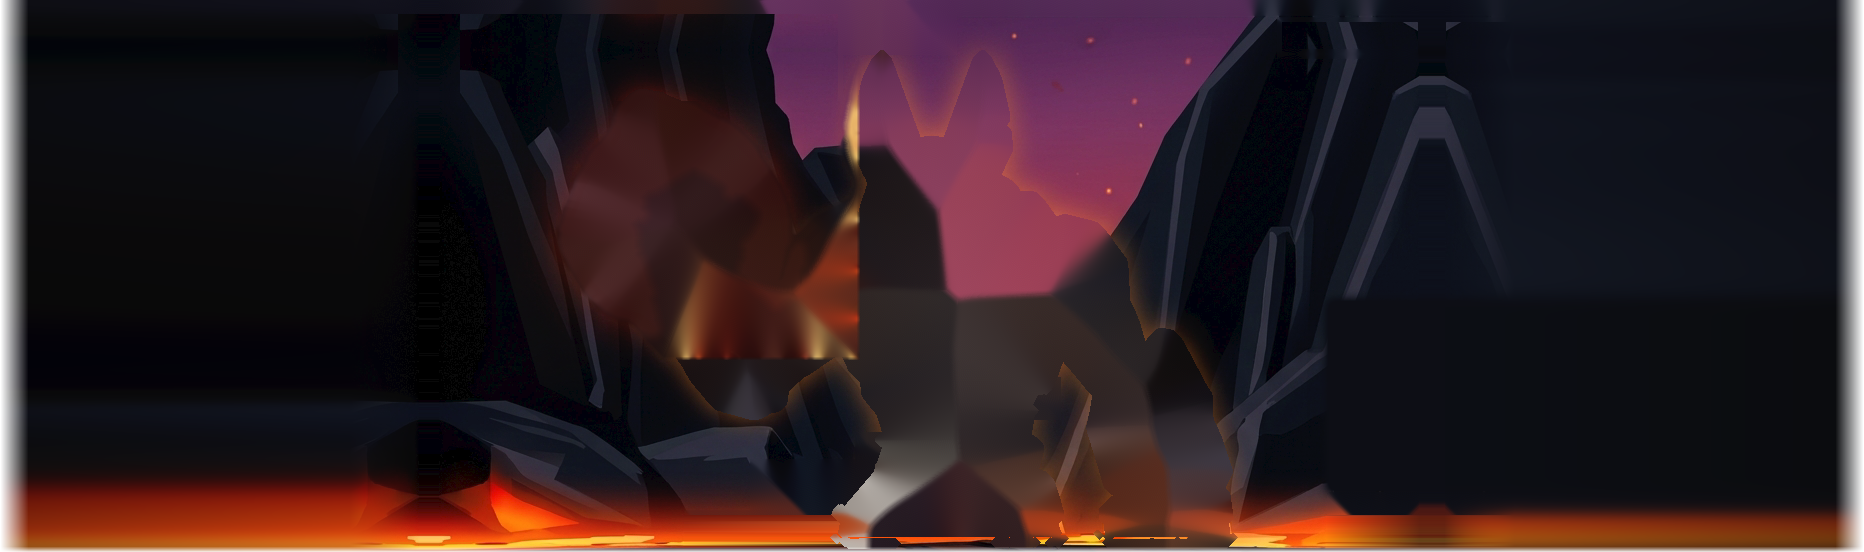
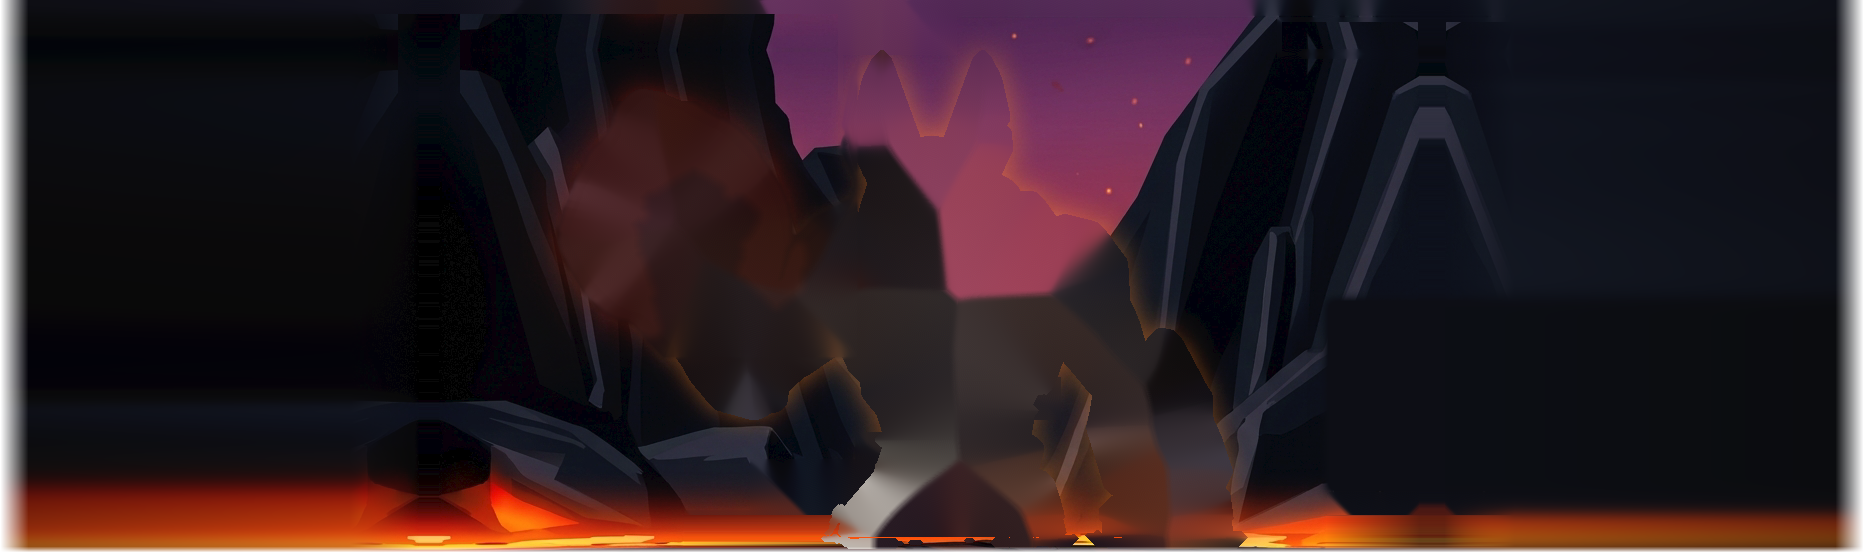
builder: run 9 — fist flame and backdrop round it, notes and status
Cracks, fist fire and cliffs graded FAIL (closer, no penalties); items stay open with Next pass lines.

Claude-Session: https://claude.ai/code/session_0154g5Bjcu6QPNTNRhyoZf7H

diff --git a/tools/backdrop_cut.py b/tools/backdrop_cut.py
@@ -101,7 +101,8 @@ def fist_backdrop(out, img, fig, wide, fire_a, m):
     near = ndi.binary_dilation(flame | m, iterations=90) & area
     src_mask = repl | (warm & near) | hud
     src_mask &= area
-    bgr = np.ascontiguousarray(np.clip(img[..., ::-1], 0, 255).astype(np.uint8))
+    # the figure already filled in `out`, so no outline leaks in from past the area
+    bgr = np.ascontiguousarray(np.clip(out[..., ::-1], 0, 255).astype(np.uint8))
     # whatever lies outside the area stays as source
     cool = cv2.inpaint(bgr, src_mask.astype(np.uint8) * 255, 11, cv2.INPAINT_TELEA)[..., ::-1].astype(float)
     # The boss-bar rect: TARGET's cliffs there are vertical slabs and its sky
@@ -172,6 +173,13 @@ def build():
     # backdrop keeps it rather than an inpainted smear.
     fig = m | ndi.binary_dilation(line, iterations=2) & ndi.binary_dilation(m, iterations=12)
     fig = ndi.binary_dilation(fig, iterations=FIG_GROW)
+    # The outline's soft cream glow reaches past the grown figure (beside
+    # the left ear it stood as a pale wisp in the sky, grader 2026-10-09):
+    # warm-light pixels just round the figure go with it.
+    r_, g_, b_ = T[..., 0], T[..., 1], T[..., 2]
+    glowline = (r_ > 150) & (g_ > 100) & (r_ - b_ > 40) & ndi.binary_dilation(fig, iterations=8)
+    glowline &= ~ndi.binary_erosion(ndi.binary_dilation(fire_a > 0.5, iterations=40), iterations=1) | m
+    fig |= ndi.binary_dilation(glowline, iterations=2)
     # The flame's tongues, a little inside their edge: the backdrop keeps
     # TARGET's glow right at the tongues, so no dark fill rims the flame.
     fig |= ndi.binary_erosion(fire_a > 0.5, iterations=5)   # past the tongues' sway

diff --git a/tools/beast_rig.py b/tools/beast_rig.py
@@ -141,6 +141,10 @@ FIRE_SMOOTH = True
 FIRE_SMOOTH_D = 11
 FIRE_SMOOTH_SC = 40.0
 FIRE_SMOOTH_SS = 5.0
+# Unsharp on the smoothed flame (canvas px sigma, gain): TARGET's curl
+# strokes read inked; after the resample the game's read soft (grader R3).
+FIRE_INK_SIG = 2.5
+FIRE_INK = 0.0   # 0.8 tried 2026-10-09: brought the grain back
 FIRE_SHELL_PX = 0.0       # canvas px (2x TARGET) of the flame's outer shell
 FIRE_SHELL_R = (110.0, 165.0)   # red: fully faded .. fully kept
 FIRE_HAZE = 0.92        # 0.92 until the backdrop (tools/backdrop_cut.py) carried TARGET's glow itself
@@ -851,7 +855,10 @@ def build():
             sm = cv2.bilateralFilter(L[..., :3].astype(np.float32), FIRE_SMOOTH_D,
                                      FIRE_SMOOTH_SC, FIRE_SMOOTH_SS).astype(float)
             L = L.copy()
-            L[..., :3] = np.where((L[..., 3:4] > 0), sm, L[..., :3])
+            if FIRE_INK:
+                bl = np.dstack([ndi.gaussian_filter(sm[..., k], FIRE_INK_SIG) for k in range(3)])
+                sm = np.clip(sm + (sm - bl) * FIRE_INK, 0, 255)
+            L[..., :3] = np.where((L[..., 3:4] > 250), sm, np.where(L[..., 3:4] > 0, L[..., :3] * 0 + sm, L[..., :3]))
             # The flame's soft edge carried TARGET's dark glow colour, a dark
             # rim round every tongue over the fight's backdrop: each edge
             # pixel takes the colour of the nearest solid flame pixel.

diff --git a/design/plan/BUILDER-QUEUE-NOTES.md b/design/plan/BUILDER-QUEUE-NOTES.md
@@ -2201,6 +2201,17 @@ Found by measuring, not by eye: the jackal is TARGET's own pixels, so every crac
 - **Grader:** R1 FAIL (judged on --beast, flame cut off), R2 FAIL with --fist: shape and place MET; asks for crisper edges and stronger inner curls, no bloom. VERDICT: FAIL.
 - Frames: ![[agents/frames/builder/2026-10-09-fist5-before.png|420]] ![[agents/frames/builder/2026-10-09-fist5-after.png|420]]
 - Meshy: 0 credits.
+
+2026-10-09 04:00 EDT, builder (run 9). Not passed; item left open.
+
+- **Sparkle in the flame.** TARGET's flame carries ~6-10 levels of grain at 1024 px; the fight's colour path blows it up in the bright yellows, so the flame read as sparkly noise. beast_rig.py `FIRE_SMOOTH` (bilateral d 11, sigma colour 40, space 5, on the fire layer after the upscale). A flat-colour test fire rendered flat, so the grain was the art, not the render.
+- **Dark rim round the tongues.** The keyed flame's soft edge carried TARGET's dark glow colour; edge pixels within 3 px of solid flame now take the nearest flame colour. `FIRE_HAZE` 0.92 back on (TARGET's own glow round the flame rides on the fire layer, below the halo alpha).
+- **The drip column above the fist** was the backdrop's TELEA fill of the boss-bar rect and the figure pulling the flame's glow up. New backdrop_cut.py `fist_backdrop`: the figure fill round the fist rebuilt as cool slate (warm pixels kept out of the inpaint source, the source being the already-filled backdrop so no outline leaks in), plus half TARGET's measured glow by distance (`FIST_GLOW` 0.5), TARGET's ring pixels carried in at the edge (`FIST_EDGE_SIG` 3); only the bar panel (rows 14-50) is mirrored, TARGET's own rows 50-101 are kept.
+- **Tried, reverted:** alpha cap 0.96 (with the edge pass it smeared the flame), an outer-shell alpha fade (dark contour; `FIRE_SHELL_PX` 0), fill only under the figure (bright TARGET flame ring left in the backdrop), a local glow ratio (cool band left of the flame), an unsharp on the flame (`FIRE_INK` 0.8: grain back), a centred, smaller arm idle (the 1.5 px offset is static, not the idle).
+- **Measured (--fist pair, registered):** flame bands T/G (234,78,18)/(235,76,17), (245,126,30)/(245,121,26), (250,174,40)/(250,168,35), (253,217,61)/(254,214,55); glow at 3-6 px (154,71,30)/(156,75,29), 15-25 px (108,42,23)/(103,40,22). The fist sits (4,2) pair px (~1.5 screen px) right/down of TARGET's.
+- **Grader:** R1 FAIL (no visible change at frame scale, haze, soft curls), R2 FAIL (closer: column and rim gone; interior flatter, wider glow), R3 FAIL (closer; curl strokes soft, haze past the edge). No penalties after R1. VERDICT: FAIL.
+- Frames: ![[agents/frames/builder/2026-10-09-fist6-before.png|420]] ![[agents/frames/builder/2026-10-09-fist6-after.png|420]]
+- Meshy: 0 credits.
 ## Stray yellow speck on the jackal's chest.
 
 2026-10-08 23:20 EDT, builder. Passed.
@@ -2255,6 +2266,13 @@ Found by measuring, not by eye: the jackal is TARGET's own pixels, so every crac
 - Frames: ![[agents/frames/builder/2026-10-09-cliffs11-before.png|420]] ![[agents/frames/builder/2026-10-09-cliffs11-after.png|420]]
 - Meshy: 0 credits.
 
+2026-10-09 04:00 EDT, builder (run 9). Not passed; item left open.
+
+- The figure-fill smears named in the last Next pass are fixed in the backdrop (see Fist fire, run 9): the dark column over the fist, and a cream wisp left of the left ear (the fist area's inpaint pulled TARGET's ear outline in from past its right edge).
+- Measured on the --fist pair, left cliff T/G: mean (9.8,10.5,19.4)/(9.3,9.8,18.8), luminance p10/p90 2-28 / 2-28, Laplacian 1.11/1.06.
+- **Grader:** R13 FAIL ("left cliff lighter and hazier, facets soft"; asked for before/after --fist and --beast close-ups to judge the smears). VERDICT: FAIL.
+- Frames: ![[agents/frames/builder/2026-10-09-cliffs13-before.png|420]] ![[agents/frames/builder/2026-10-09-cliffs13-after.png|420]]
+- Meshy: 0 credits.
 ## HUD and climb gauge inside the centred square.
 
 2026-10-09 01:28 EDT, builder (run 8). PASSED.

diff --git a/design/plan/BUILDER-QUEUE.md b/design/plan/BUILDER-QUEUE.md
@@ -39,7 +39,7 @@ run failed.
       Test: state=3d beast=cinder_jackal ^cracks-wide-hot-cores-and-a-long-sternum
 
 - [ ] **Fist fire: compact curling blaze wrapped on the fist.**
-      Next pass: grader R2 (2026-10-09 run 7, with the new --fist pair): shape, size and place MET; still "blurred, wide orange bloom, dark fringe, faint inner curls" against TARGET's near-black cliff. Measured edge sharpness equals TARGET's; the slate cliffs behind the fist (Cliffs item) and the drip column left of it are the next things to fix, then re-grade with --fist.
+      Next pass: grader R3 (2026-10-09 run 9, with --fist): shape, size, place MET, no penalties, closer (drip column and dark rim gone); still "inner curl strokes soft and low-contrast, orange haze a few px past the edge, core paler". Registered on the --fist pair the flame bands match TARGET within ~6 levels, the glow by distance matches within ~10, and the game's gradients are stronger than TARGET's; the fist and flame sit ~1.5 screen px right/down of TARGET's (static, not the idle). Next: find that 1.5 px offset in the arm's placement, then re-grade with --fist.
       Both critics, MODERATE: TARGET's flame is a compact orange-yellow blaze curling round the top and back of the fist; the game's is a tall pale plume rising above and behind it.
       **Done when** the `--square` and `--beast` pairs show no visible difference in the fist's flame.
       Test: state=3d beast=cinder_jackal ^fist-fire-compact-curling-blaze-wrapped-
@@ -51,7 +51,7 @@ run failed.
       ![[agents/frames/builder/2026-10-09-floorart-after.png|420]] ^floor-faint-warm-seams-not-bright-orange
 
 - [ ] **Cliffs: dark slate closing in, not blue and far back.**
-      Next pass: grader R12 (2026-10-09 run 8): \"right wall hazy, left wall murky, dark smudge right of the head, mid-ground outcrops dim\". Registered square error is now ~0.8 (left) / 2.2 (right) levels, so the backdrop IS TARGET's pixels; the visible differences are the figure-fill smears in the backdrop (a dark column over the fist, a smudge above-right of the head) showing where the animated jackal does not cover TARGET's silhouette. Next: fill those from cliff/sky rows, not a wide inpaint (a row-carry over the HUD band failed, it painted purple across the cliff).
+      Next pass: grader R13 (2026-10-09 run 9): "left cliff by the fist lighter and hazier, facet edges soft, glow washes the cliff". Registered on the --fist pair the left cliff matches TARGET (mean (10,11,19)/(9,10,19), Laplacian 1.11/1.06). The column over the fist and the wisp by the left ear are gone (backdrop_cut.fist_backdrop). Next: grade with before and after --fist and --beast close-ups, as the grader asked.
       Both critics, MODERATE: TARGET's cliffs are dark faceted slate on both sides with restrained cool edge highlights; the game's are bluer, lighter, further back and busier, with extra peaks behind the jackal.
       **Done when** the `--square` pair shows no visible difference in the cliffs.
       Test: state=3d beast=cinder_jackal ^cliffs-dark-slate-closing-in-not-blue-an
@@ -157,6 +157,11 @@ run failed.
       TARGET's 42/42 bar is a little smaller with a lighter rim and thinner numerals; the game's is larger and bolder (`--frog` pair).
       **Done when** the `--frog` pair shows no visible difference in the HP bar.
       Test: state=3d beast=cinder_jackal ^hp-bar-under-the-frog-target-s-size-and-
+
+- [ ] **Stones: TARGET's slab size round the body.**
+      In the `--beast` and `--chest` pairs TARGET's four upper slabs are larger and sit a few px lower than the game's (the second slab ~10% wider, the third and fourth ~10-15% larger); the cracked body round them shows where the game's slabs are smaller.
+      **Done when** the `--stones` and `--chest` pairs show no visible difference in the slabs' size and place.
+      Test: state=3d beast=cinder_jackal
 
 ## Waiting on Nick
 

diff --git a/design/agents/status/builder.md b/design/agents/status/builder.md
@@ -13,16 +13,15 @@ The one lane that builds. Queue: [[../../plan/BUILDER-QUEUE]]. Brief:
 
 ## This run
 
-2026-10-09 02:46 EDT
+2026-10-09 04:00 EDT
 
-- **Did:** HUD and hand into TARGET's square; TARGET's own floor, pedestal and full lava band; card art and edges; darker cliffs.
-- **Worked?** Partly: HUD, hand, lava line, floor and pedestal VERDICT: PASS; cracks, cards and cliffs VERDICT: FAIL, each closer.
-- **Look at:** ![[frames/builder/2026-10-09-cracks8-before.png]] then ![[frames/builder/2026-10-09-cliffs11-after.png]]
+- **Did:** rebuilt the body under the stones, cleaned the fist's flame and the backdrop round it.
+- **Worked?** No: cracks VERDICT: FAIL; fist fire VERDICT: FAIL (closer, no penalties); cliffs VERDICT: FAIL. Registered pixels match TARGET in each.
+- **Look at:** ![[frames/builder/2026-10-09-fist6-before.png]] then ![[frames/builder/2026-10-09-fist6-after.png]]
 - **Ask:** nothing
-- **Found:** the Frog sprite has a heavy pixelated outline TARGET's lacks (queued).
-- **Found:** the HP bar under the Frog is larger and bolder than TARGET's (queued).
-- **Found:** a red-edged slab stands on the floor at the 16:9 frame's right edge, outside the square.
-- **Found:** the backdrop's figure fill shows as a dark column over the fist and a smudge right of the head where the animated jackal does not cover TARGET's silhouette.
+- **Found:** TARGET's upper slabs are ~10-15% larger than the game's (queued).
+- **Found:** the fist and its flame sit ~1.5 screen px right/down of TARGET's, a static offset.
+- **Found:** graders on cracks, fist and cliffs keep naming differences the registered pixels do not show.
 
 ## Notes
 

diff --git a/design/plan/BUILDER-PROPOSED.md b/design/plan/BUILDER-PROPOSED.md
@@ -234,3 +234,5 @@ appends here, never to the queue.
 - [ ] **`vs_target.py --beast` and `--hand` crops are fitted to the beast, not the square.** Map their shot boxes through the --square test (x 280+0.703t, y 0.703t) as `--stones` now is, so the close-ups agree with the 1:1 test.
 
 - (2026-10-09 run 8) A red-edged slab stands on the floor at the 16:9 frame's right edge, outside the centred square.
+
+- 2026-10-09 builder run 9: graders on Cracks, Fist fire and Cliffs name differences (softer, paler, hazier) that registered pixel measurements on the same pairs do not show (band colours within ~6 levels, sharpness equal or higher). A grader input that adds a registered difference map, or a 2x close-up pair for each item, may let these items close.
